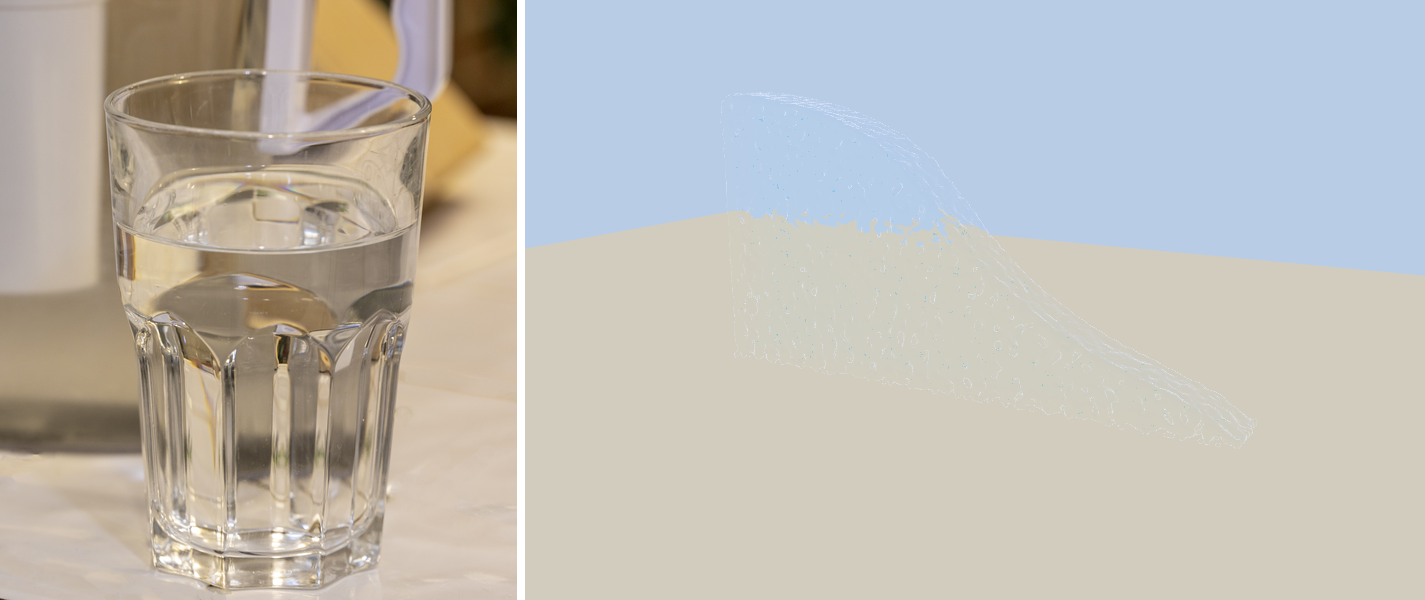
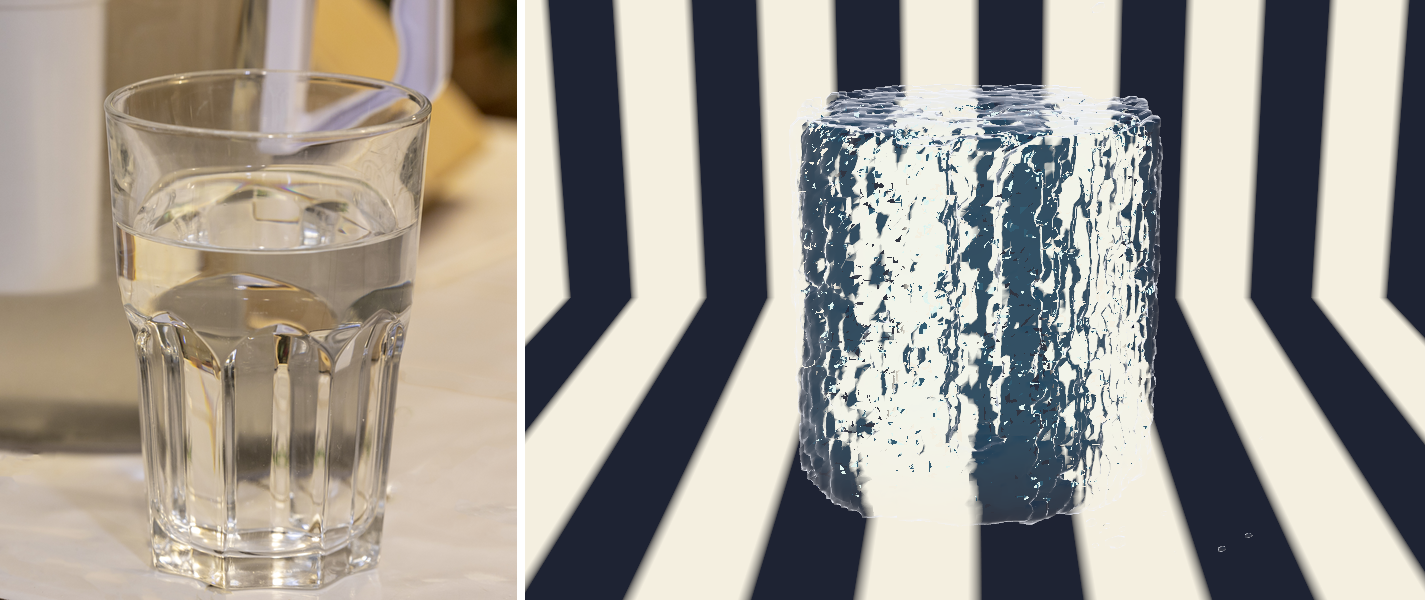
L5 round 2: gate-lift result, glass-of-water still, feedback
Claude-Session: https://claude.ai/code/session_01MWRVfiDPnee99dT9z6iMz9

diff --git a/docs/CH8b_FEEDBACK.md b/docs/CH8b_FEEDBACK.md
@@ -132,3 +132,10 @@ Suite `tests/liq2_test.gd` (registered as `liq2` in tools/run_all.sh). Every bar
 - Bars of CH8 itself: none found wrong; none edited.
 
 **Render bars**: R0 thickness 0.2002 m for 0.200 (bar 3 %); R1 F(80) 0.3968 vs Schlick 0.3978, F(10) 0.0203 vs 0.0204, ratio 19.6 vs 19.5; R2 B-R 0.0266/0.0527/0.0784 vs Beer-Lambert 0.0273/0.0537/0.0720; R3 closed surface 0.00 % open edges, 0.402 % incoherent thickness pixels (bar 0.5 %). All four planted controls fail as they must.
+
+### L5 round 2 (review RED, one fix round)
+
+- **E1 (thin wall): fixed.** The corner SDF cannot resolve a 4 mm wall on 3 mm cells, so after each move every particle near a cut mesh is now projected by exact point-to-triangle distance (native, bucketed per cell). The side is decided from the particle's position BEFORE the move (the triangle it came from the outer side of), so a particle that crosses the wall is put back where it came from rather than ejected to the nearest face. 787 -> 0 inside the mesh by ray parity. The mug wall was not thickened.
+- **E3 (fill) and E2: fixed in the scenario, bars unchanged.** The first pour splashed over the rim (the leak probe's first escaped drop was 6 mm outside the outer wall at 65 % poured, below the rim: a falling splash drop). The pour is now a 20 mm stream, every third step, with the spout 6 mm above the free surface. liq2 E1 0, E2 0, E3 97 % (0.361 of 0.371 L), E4 14.1 % spilled when over-poured to 1.15, control (voxel mesh, 78 %) still fails the 85 % bar.
+- **Gate-lift experiment (ONE, information; tools/liq2_gate_probe.gd).** Same 14 verified Table 2 points, instant release vs a gate one cell thick pulled up at an ASSUMED 1.5 m/s as a cut-cell moving wall (the lift speed is not in the verified notes). Worst front error: instant 23.7 %, finite gate 38.5 %. **The gate-lift hypothesis is not supported at that speed: the front leads MORE, not less** (Z at T = 0.41: 1.15 instant, 1.27 gate, paper 1.11), consistent with a faster jet under a partly open gate. So the lead of the simulated front is not a gate effect in this model. Remaining candidates, untested: no air phase (no back-pressure or drag on the front), no surface tension, the free-slip wall, the front definition (lowest 0.15 a of the particles). M&M (c)/(h)/(M) stay red and are parked.
+- Render: the surface is now the iso-surface of the particle density (ndiv 2, 30 Taubin passes), flat-shaded foam off, tint scatter (0.05, 0.30, 0.38) k = 14 (art term, flagged), refraction of a striped backdrop. compare.png now shows a water cylinder with visible refraction, tint and edge brightening, but the side surface is rough at the particle scale (vertical streaks) where a real glass is smooth, and there is no glass.
